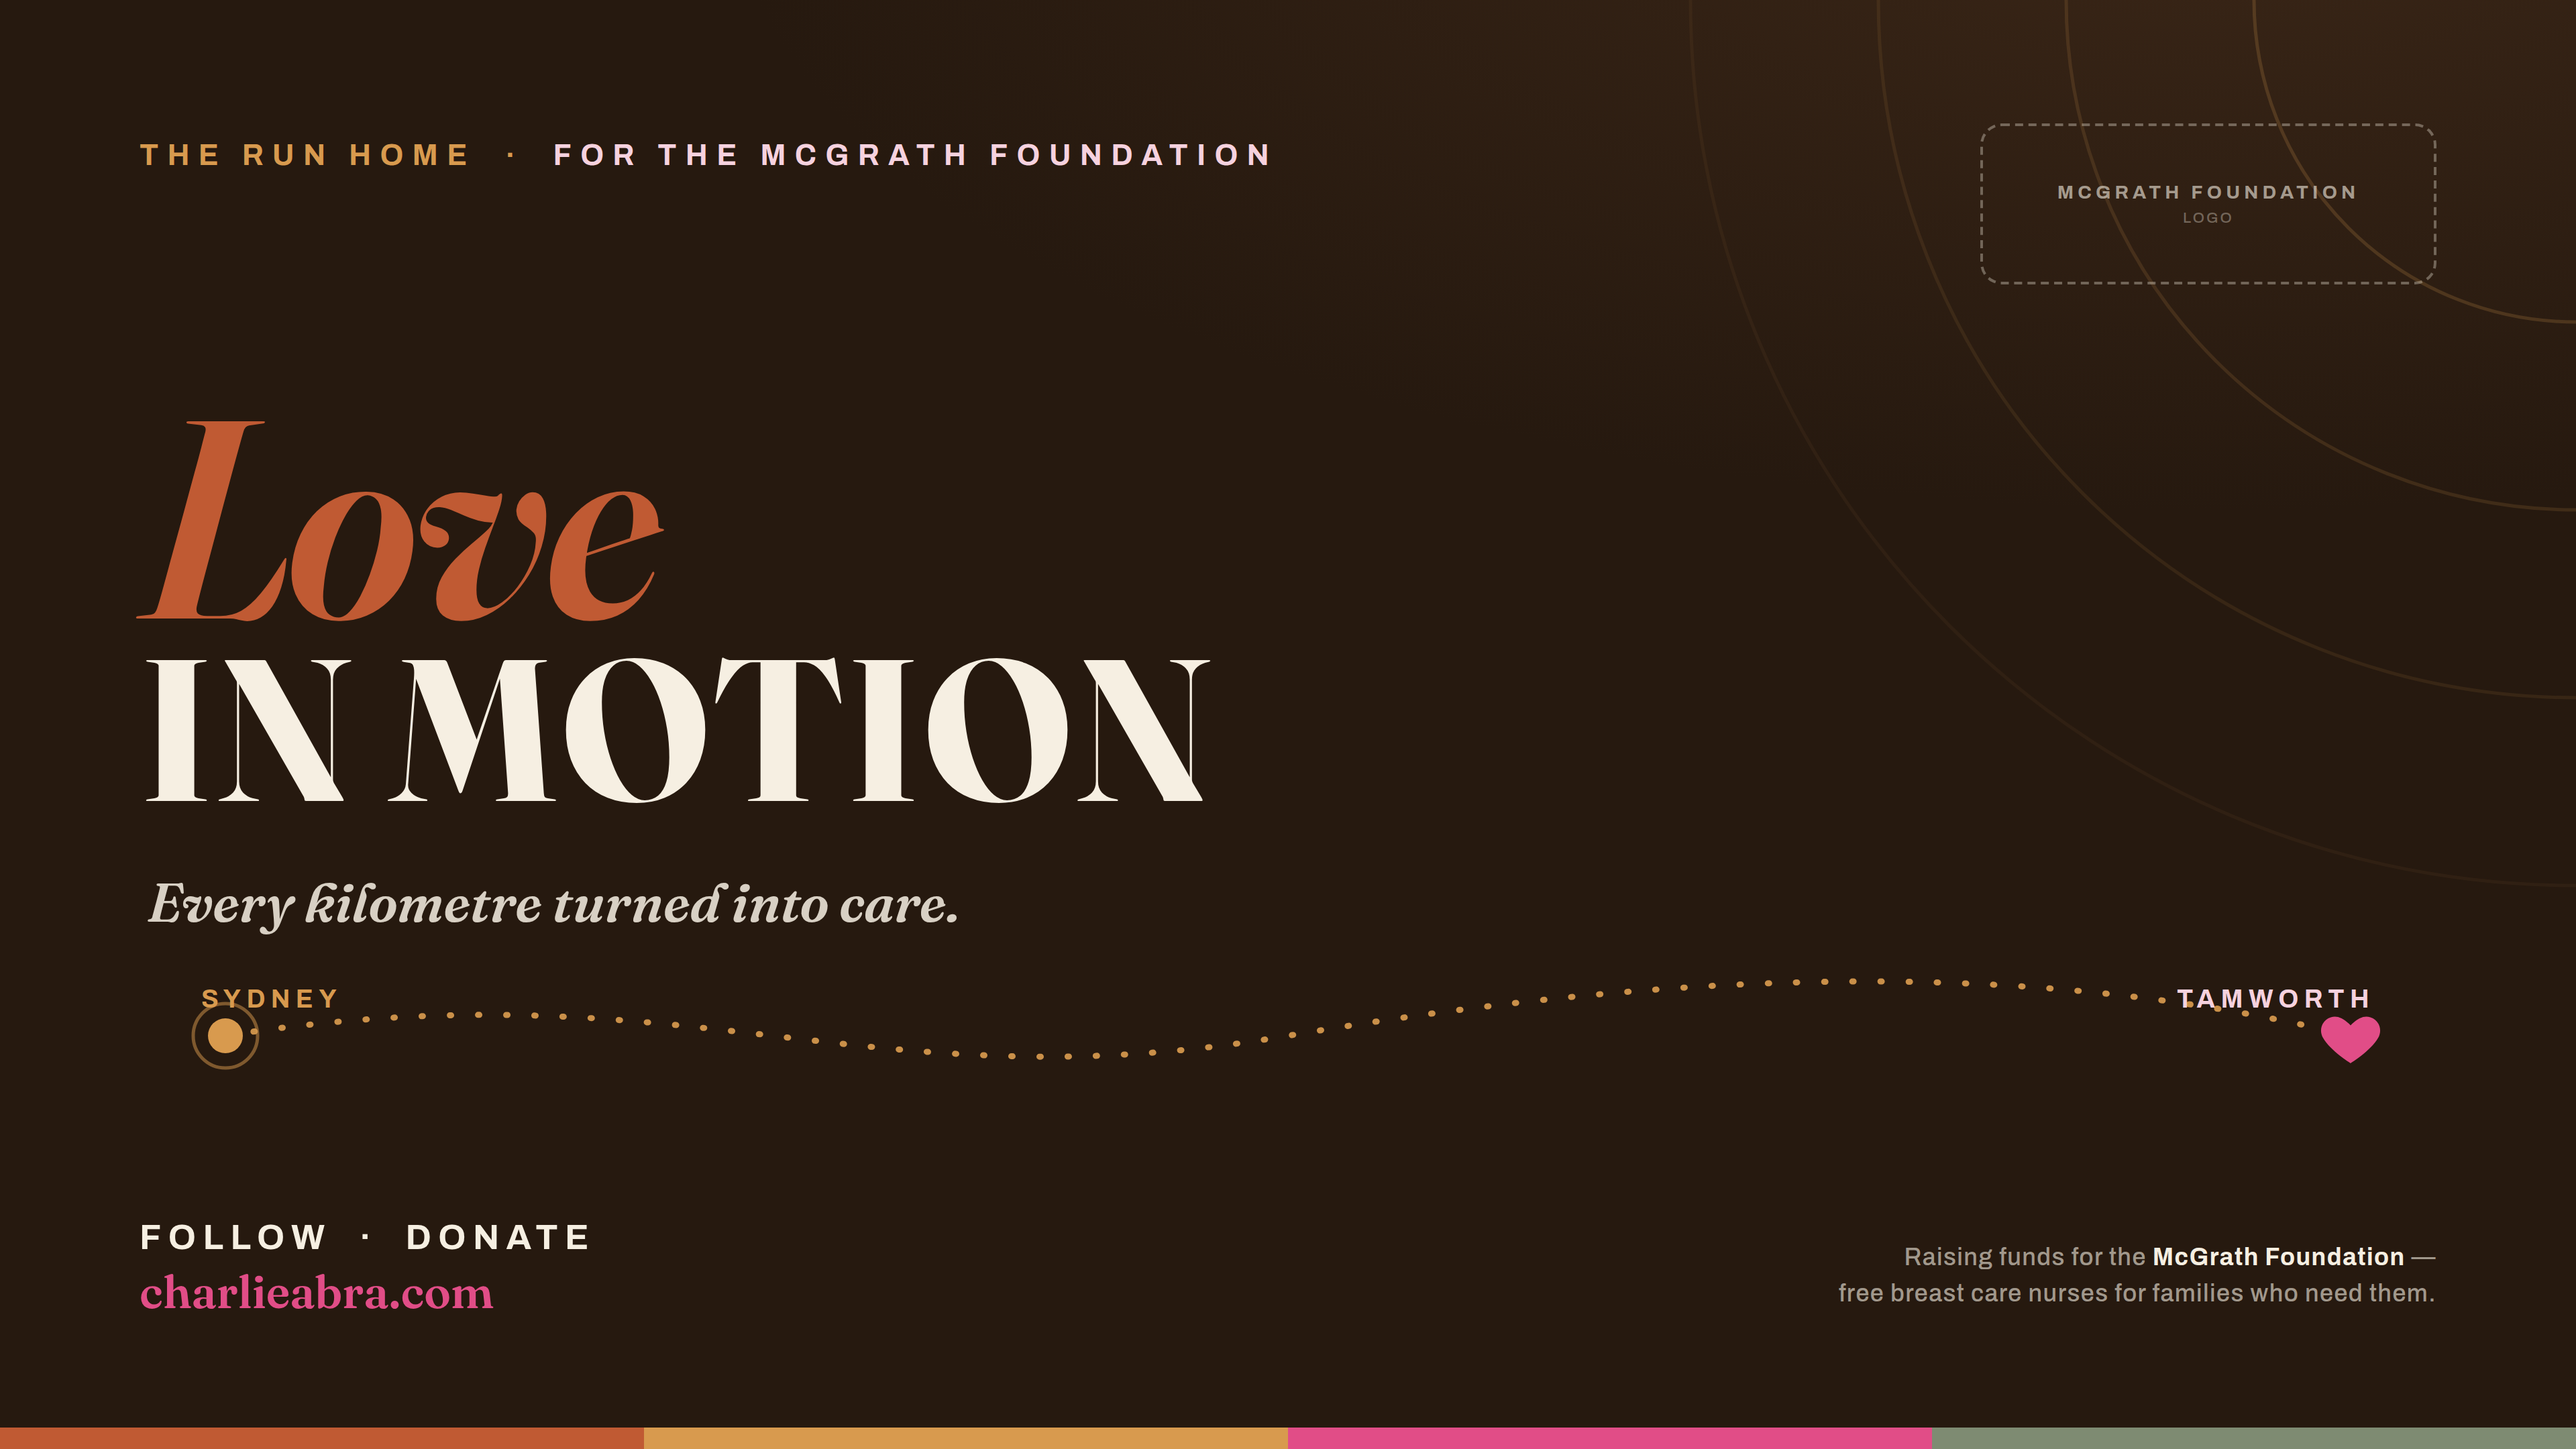
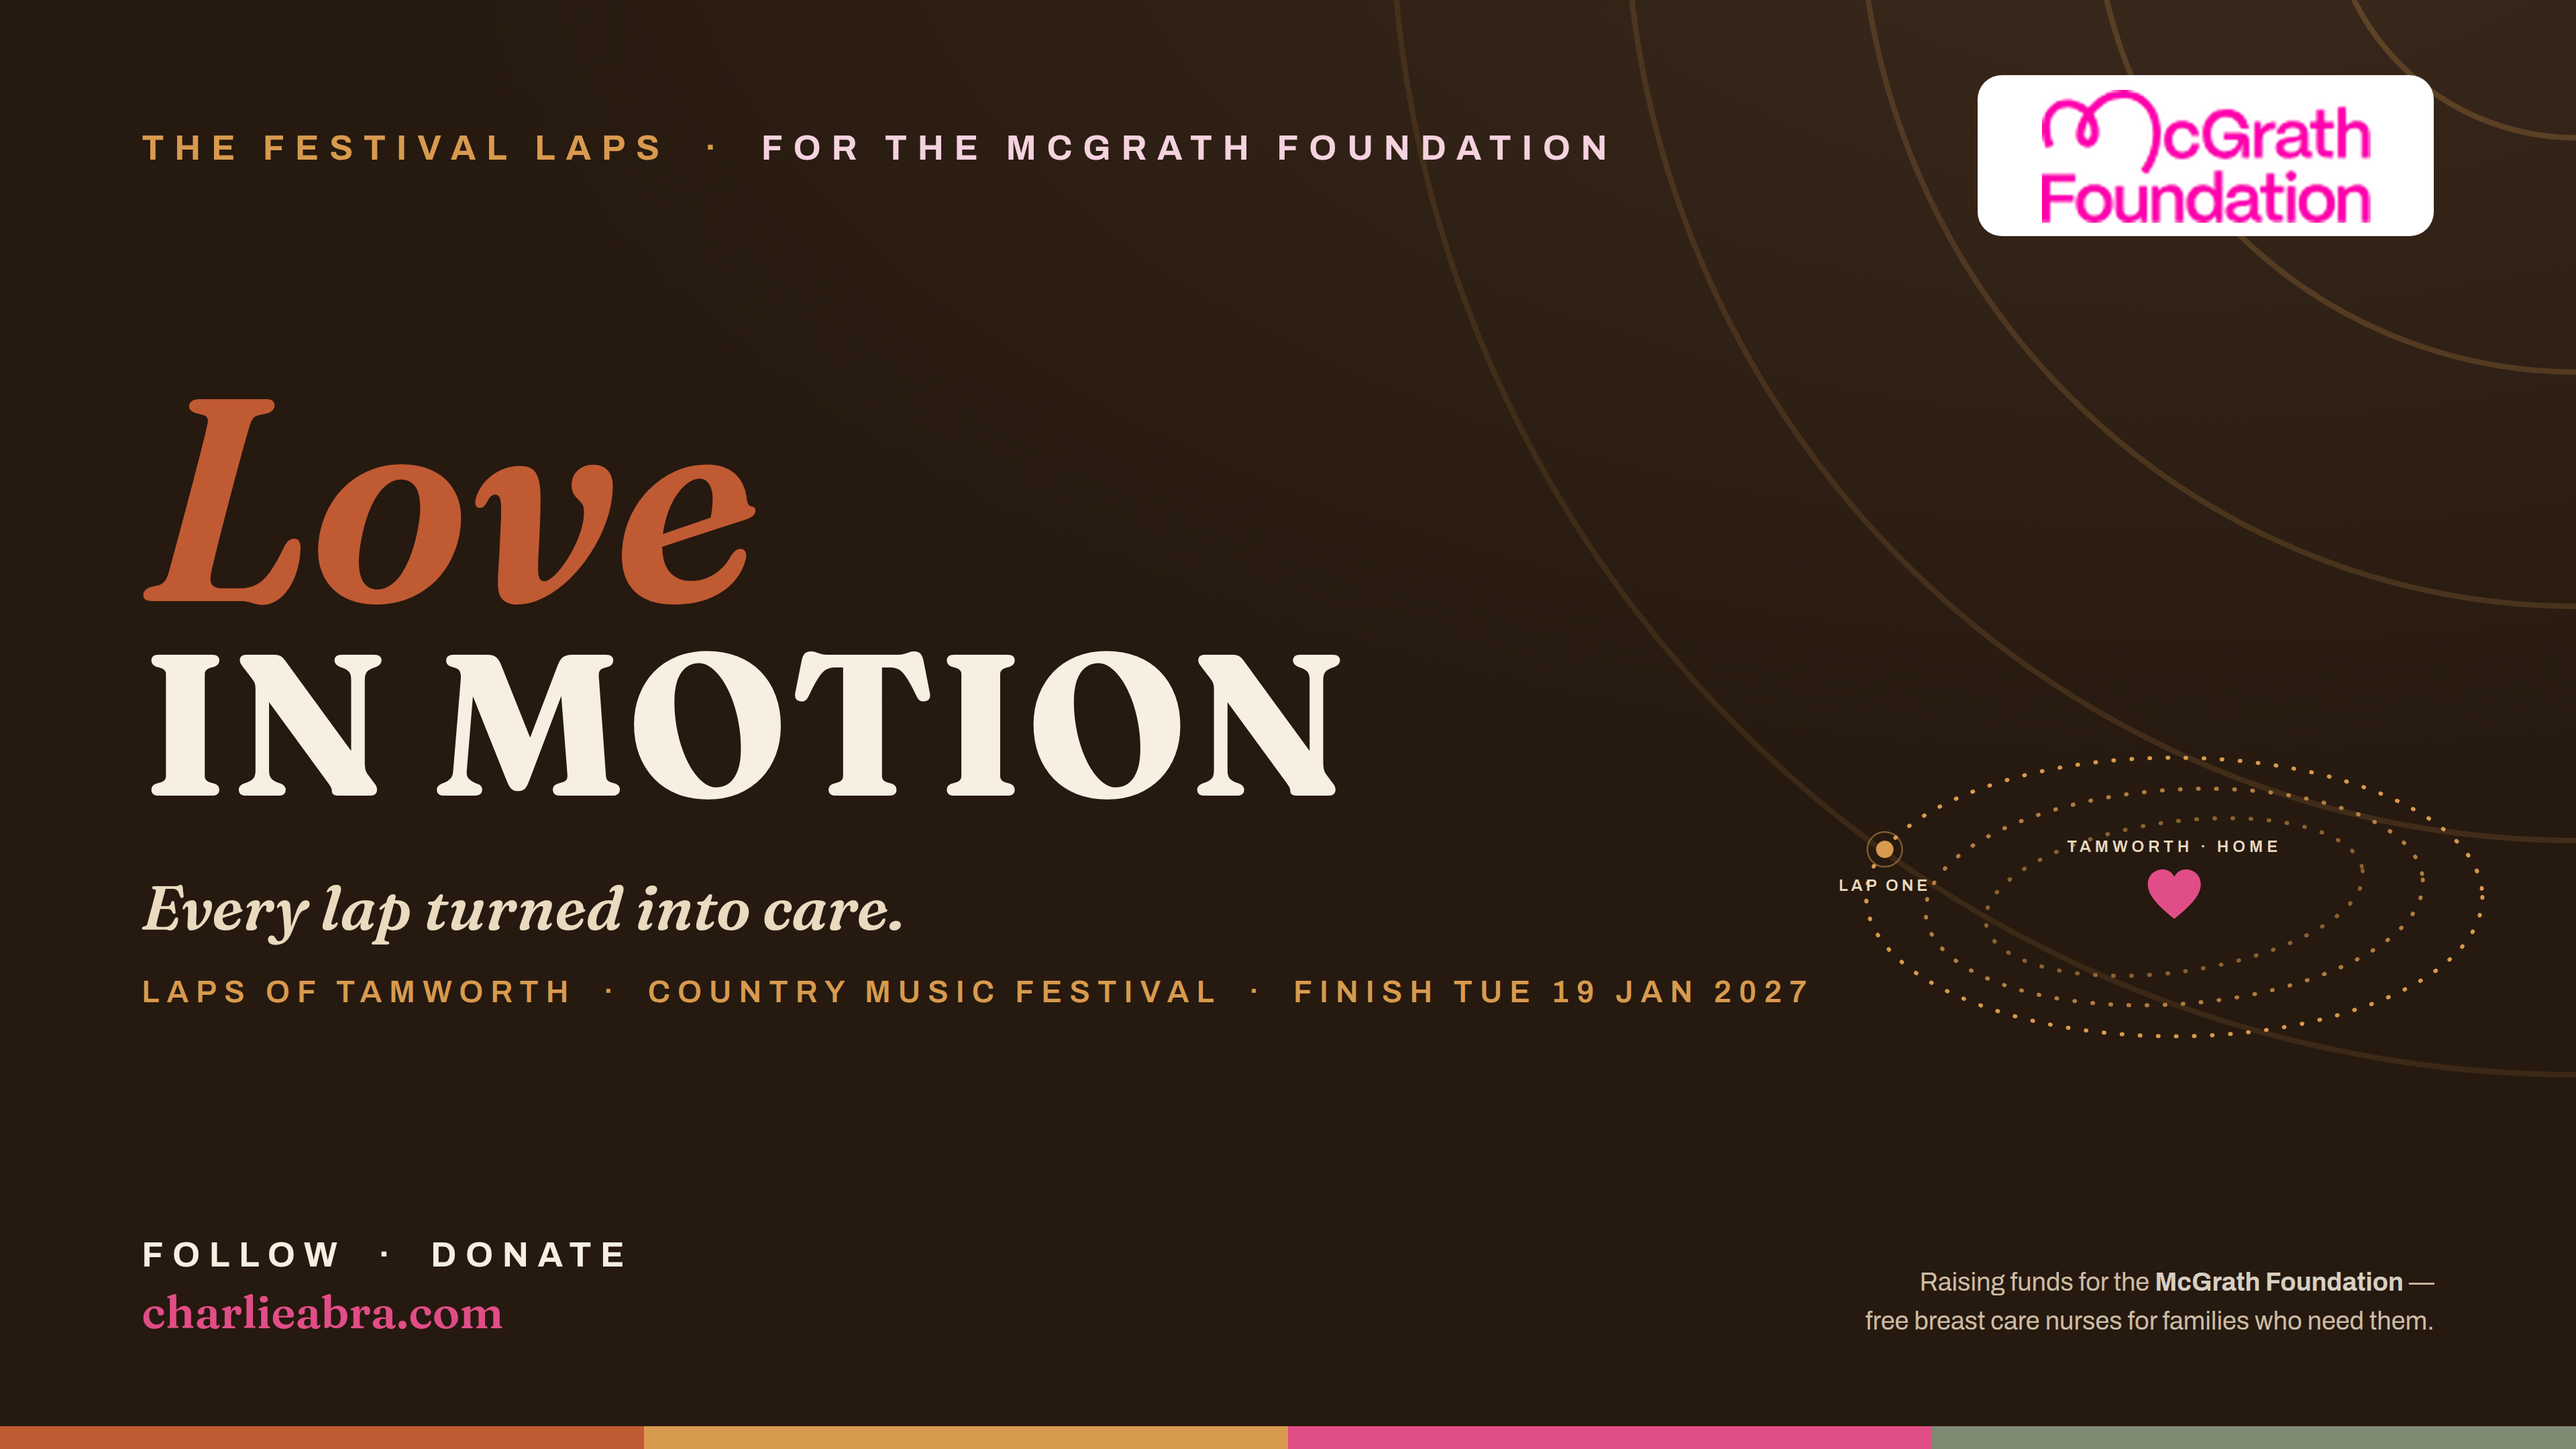
Re-render the hero tiles for The Festival Laps
All ten campaign tiles (16x9 1x/2x + terra, 1x1, 9x16, each with and
without the McGrath logo chip) re-rendered from the locked
love-in-motion-design system for the new campaign:

- kicker: "The Festival Laps - For the McGrath Foundation"
- tagline: "Every lap turned into care."
- facts line: laps of Tamworth, Country Music Festival, finish Tue
  19 Jan 2027 (the one confirmed date; distance/day count stay off)
- the point-to-point route motif becomes the lap motif: dotted loops
  circling a pink heart at home (LAP ONE -> TAMWORTH - HOME)
- palette, lockup, type, sun arcs, colour strip and logo-chip
  treatment unchanged from the shipped pack

media/campaign/README.md updated; sw.js VER -> limn-v38 so cached
copies of the tiles (og:image included) refresh.

Claude-Session: https://claude.ai/code/session_013RVgf2bvsePuKFKTHq9q9K

diff --git a/sw.js b/sw.js
@@ -3,7 +3,7 @@
    of the precached shell after changing any of the files below. */
 "use strict";
 
-var VER = "limn-v37";
+var VER = "limn-v38";
 
 /* Same-origin app shell. Paths are relative to this file (the site root),
    so it works both at the domain root and under /Love-in-Motion/. */

diff --git a/media/campaign/README.md b/media/campaign/README.md
@@ -1,8 +1,12 @@
 # Love in Motion — campaign hero graphics
 
-Hero graphics for The Run Home campaign (SCG → Tamworth), built on the locked
-`love-in-motion-design` system (Fraunces + Archivo; terracotta / ochre / ink
-palette; *Love* **IN MOTION** lockup; ochre → pink route motif — the pink heart now sits at Tamworth, home; colour strip).
+Hero graphics for The Festival Laps campaign (a multi-day ultra as laps of
+Tamworth during the Country Music Festival, finishing with the McGrath
+Foundation on Tue 19 Jan 2027), built on the locked `love-in-motion-design`
+system (Fraunces + Archivo; terracotta / ochre / ink palette; *Love*
+**IN MOTION** lockup; colour strip). The route motif is now the **lap
+motif** — dotted loops circling a pink heart at home (LAP ONE → TAMWORTH ·
+HOME).
 
 | File | Size | Use |
 | --- | --- | --- |
@@ -30,7 +34,8 @@ partner-logo chip in place of the reserved slot.
 - The **McGrath Foundation logo slot is reserved** (dashed placeholder) — the
   official logo is not reproduced here. It drops in only after partnership /
   brand approval.
-- **No event dates** are shown on the tiles (route: Sydney → Tamworth, the run home).
+- The one date shown — **Finish Tue 19 Jan 2027** — is confirmed by Charlie.
+  Distance and day count stay off the tiles (decided 14 Dec, recovery-led).
 - The pink is the campaign **placeholder**, not the official McGrath pink;
   swap when their brand pack lands and re-render.
 - CTA: charlieabra.com (Follow · Donate).
